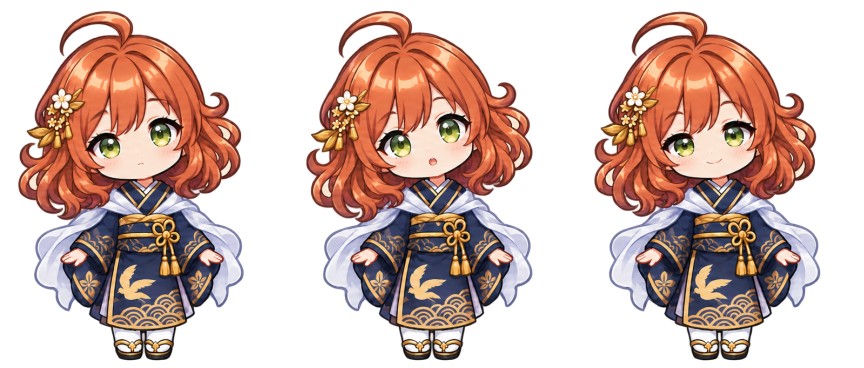
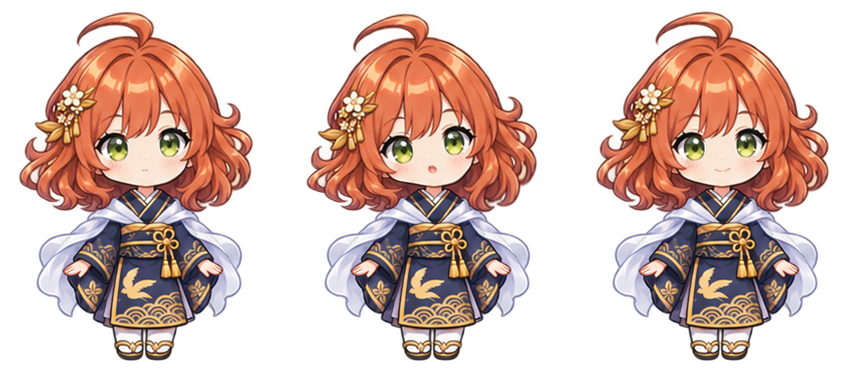
M41: Tune bow and menu direction and stabilize neck tilt artwork

diff --git a/tests/HagoromoChan.Tests/CharacterReactionTests.cs b/tests/HagoromoChan.Tests/CharacterReactionTests.cs
@@ -202,11 +202,14 @@ internal static class CharacterReactionTests
         startup.ObserveStartup(initialized: true, firstFrameRendered: false, 0);
         Check(startup.Sample(1).Pose == ReactionPose.Idle, "a loaded but not yet painted mascot never bows");
         startup.ObserveStartup(initialized: true, firstFrameRendered: true, 2);
-        var bow = startup.Sample(295);
+        Check(startup.Sample(521) is { ArtworkCell: 0, DurationMs: 1420 }, "the bow entry lasts 520 ms");
+        var bow = startup.Sample(522);
         Check(bow is { Pose: ReactionPose.StartupBow, Artwork: LocalMotionCells.Startup, ArtworkCell: 1 },
             "startup bows with a body change rather than gaze alone");
-        startup.ObserveStartup(initialized: true, firstFrameRendered: true, 715);
-        Check(startup.Sample(715).Pose == ReactionPose.Idle && !startup.WaitingForReply,
+        Check(startup.Sample(822).ArtworkCell == 2 && startup.Sample(1421).ArtworkCell == 2,
+            "the bow apex lasts 300 ms and recovery lasts 600 ms");
+        startup.ObserveStartup(initialized: true, firstFrameRendered: true, 1422);
+        Check(startup.Sample(1422).Pose == ReactionPose.Idle && !startup.WaitingForReply,
             "repeated first-frame callbacks do not bow or mutate the relay");
         var off = new CharacterReactionState();
         off.SetEnabled(false, 0);
@@ -215,12 +218,46 @@ internal static class CharacterReactionTests
         off.ObserveStartup(true, true, 3);
         Check(off.Sample(3).Pose == ReactionPose.Idle, "motion-off suppresses startup without delayed replay");
 
+        var longBow = new CharacterReactionState();
+        longBow.ObserveStartup(true, true, 0);
+        longBow.ObserveMenu(true, 20, 10);
+        Check(longBow.Sample(1419).Pose == ReactionPose.StartupBow &&
+              longBow.Sample(1420) is { Pose: ReactionPose.MenuPeek, Artwork: LocalMotionCells.MenuLeft },
+            "the immediate menu's peek survives the long bow and starts at its boundary");
+        var closedDuringBow = new CharacterReactionState();
+        closedDuringBow.ObserveStartup(true, true, 0);
+        closedDuringBow.ObserveMenu(true, -20, 10);
+        closedDuringBow.ObserveMenu(false, 0, 100);
+        Check(closedDuringBow.Sample(1420).Pose == ReactionPose.Idle, "closing during the bow discards a waiting peek");
+        var closingBow = new CharacterReactionState();
+        closingBow.ObserveStartup(true, true, 0);
+        closingBow.BeginShutdown(0, animate: true);
+        Check(closingBow.Sample(709).Pose == ReactionPose.StartupBow &&
+              closingBow.Sample(710).Pose == ReactionPose.Shutdown,
+            "shutdown waits no longer for the bow than before");
+        closingBow.Sample(1410);
+        Check(closingBow.ShutdownReady, "the pre-extension shutdown deadline still holds");
+        off.SetEnabled(false, 10);
+        off.ObserveMenu(true, 1, 11);
+        Check(off.Sample(11).Pose == ReactionPose.Still, "motion-off suppresses a menu peek");
+        off.SetEnabled(true, 12);
+        Check(off.Sample(12).Pose == ReactionPose.Still, "enabling motion does not replay the open menu");
+
+        foreach (var (offset, key) in new[] { (-20d, LocalMotionCells.MenuRight), (-.25, LocalMotionCells.MenuRight),
+                                            (0d, LocalMotionCells.MenuLeft), (.25, LocalMotionCells.MenuLeft),
+                                            (20d, LocalMotionCells.MenuLeft) })
+        {
+            var placedMenu = new CharacterReactionState();
+            placedMenu.ObserveMenu(true, offset, 0);
+            Check(placedMenu.Sample(0).Artwork == key, "peek uses the side opposite actual menu placement");
+        }
+
         var menu = new CharacterReactionState();
         menu.ObserveMenu(true, -1, 10);
         menu.Receive([Row(1, "new")], 20);
         var peek = menu.Sample(200);
-        Check(peek is { Pose: ReactionPose.MenuPeek, Artwork: LocalMotionCells.MenuLeft, ArtworkCell: 1 },
-            "one short reaction visibly leans toward the open menu");
+        Check(peek is { Pose: ReactionPose.MenuPeek, Artwork: LocalMotionCells.MenuRight, ArtworkCell: 1 },
+            "one short reaction visibly leans away from the open menu");
         Check(menu.Sample(451).Pose == ReactionPose.Still && menu.Sample(3100).Pose == ReactionPose.Still,
             "a long-open menu does not replay or run normal background actions");
         menu.ObserveMenu(false, 0, 3101);
@@ -229,8 +266,8 @@ internal static class CharacterReactionTests
         reopen.ObserveMenu(true, -1, 0);
         reopen.ObserveMenu(false, 0, 150);
         reopen.ObserveMenu(true, 1, 160);
-        Check(reopen.Sample(200).Artwork == LocalMotionCells.MenuLeft, "a new target cannot flip a protected visual");
-        Check(reopen.Sample(440).Pose == ReactionPose.MenuPeek && reopen.Sample(610).Artwork == LocalMotionCells.MenuRight,
+        Check(reopen.Sample(200).Artwork == LocalMotionCells.MenuRight, "a new target cannot flip a protected visual");
+        Check(reopen.Sample(440).Pose == ReactionPose.MenuPeek && reopen.Sample(610).Artwork == LocalMotionCells.MenuLeft,
             "the next peek uses the next menu side only after the first ends");
         var quickMenu = new CharacterReactionState();
         quickMenu.Fail(0);
@@ -262,18 +299,18 @@ internal static class CharacterReactionTests
         var definitions = new (string Key, Action<CharacterReactionState> Start)[]
         {
             (LocalMotionCells.Startup, x => x.ObserveStartup(true, true, 0)),
-            (LocalMotionCells.MenuLeft, x => x.ObserveMenu(true, -1, 0)),
-            (LocalMotionCells.MenuRight, x => x.ObserveMenu(true, 1, 0)),
+            (LocalMotionCells.MenuRight, x => x.ObserveMenu(true, -1, 0)),
+            (LocalMotionCells.MenuLeft, x => x.ObserveMenu(true, 1, 0)),
             (LocalMotionCells.Open, x => x.ConversationChanged(false, true, 0, mascotClick: true)),
             (LocalMotionCells.Close, x => x.ConversationChanged(true, false, 0, mascotClick: true))
         };
         foreach (var (key, start) in definitions)
-        foreach (var skippedTick in Enumerable.Range(-1, 17))
+        foreach (var skippedTick in Enumerable.Range(-1, 31))
         {
             var motion = new CharacterReactionState();
             start(motion);
             var frames = new List<int>();
-            for (var tick = 0; tick <= 800; tick += 50)
+            for (var tick = 0; tick <= 1450; tick += 50)
             {
                 if (tick / 50 == skippedTick) continue; // one 100 ms render gap
                 var frame = motion.Sample(tick);

diff --git a/src/HagoromoChan.Desktop/CharacterReactionState.cs b/src/HagoromoChan.Desktop/CharacterReactionState.cs
@@ -167,7 +167,7 @@ internal sealed class CharacterReactionState(bool customArtwork = false)
     private sealed record MotionDefinition(ReactionPose Pose, string Artwork, ReactionTimeline Timeline,
         ReactionTimeline? CustomTimeline = null, Aim Aim = Aim.None, bool? Visible = null,
         bool Coalesce = false, string? DirectArtwork = null, double? UnreadLookFrom = null,
-        bool WhileMenuOpen = false, string? LeftArtwork = null);
+        bool WhileMenuOpen = false, string? LeftArtwork = null, int? ShutdownPlaybackLimitMs = null);
     private readonly record struct Queued(MotionDefinition Definition, long At);
     private readonly record struct Playing(MotionDefinition Definition, ReactionTimeline Timeline, long Started, string Artwork, long? EligibleAfter = null)
     {
@@ -210,7 +210,8 @@ internal sealed class CharacterReactionState(bool customArtwork = false)
             new(ReactionPose.Failed, "failed", Clip(800)),
             new(ReactionPose.Jump, "jumping", Clip(650), Coalesce: true),
             new(ReactionPose.Shutdown, "farewell", Clip(700)),
-            new(ReactionPose.StartupBow, LocalMotionCells.Startup, DrawnMotion(260, 150, 300)),
+            new(ReactionPose.StartupBow, LocalMotionCells.Startup, DrawnMotion(520, 300, 600),
+                ShutdownPlaybackLimitMs: 710),
             new(ReactionPose.MenuPeek, LocalMotionCells.MenuRight, DrawnMotion(130, 130, 180),
                 Coalesce: true, WhileMenuOpen: true, LeftArtwork: LocalMotionCells.MenuLeft),
             new(ReactionPose.ConversationOpen, LocalMotionCells.Open, DrawnMotion(180, 180, 220), Visible: true),
@@ -220,7 +221,7 @@ internal sealed class CharacterReactionState(bool customArtwork = false)
 
     private Playing Start(MotionDefinition motion, long now) =>
         new(motion, customArtwork ? motion.CustomTimeline ?? motion.Timeline : motion.Timeline, now,
-            _menuSide < 0 ? motion.LeftArtwork ?? motion.Artwork : motion.Artwork);
+            _uncoveredSide < 0 ? motion.LeftArtwork ?? motion.Artwork : motion.Artwork);
 
     private Playing Start(ReactionPose pose, long now) => Start(Motions[pose], now);
 
@@ -233,7 +234,7 @@ internal sealed class CharacterReactionState(bool customArtwork = false)
     private ReactionPose? _lastGreeting;
     private long _lastGreetingAt;
     private bool _unread, _visible, _startupObserved, _menuOpen;
-    private double _menuSide = 1;
+    private int _uncoveredSide = -1;
     private long? _windowMoved;
     private (double X, double Y) _windowTarget;
     private (double X, double Y)? _cursor;
@@ -270,13 +271,14 @@ internal sealed class CharacterReactionState(bool customArtwork = false)
         Request(ReactionPose.StartupBow, nowMs);
     }
 
-    public void ObserveMenu(bool open, double side, long nowMs)
+    public void ObserveMenu(bool open, double menuOffsetX, long nowMs)
     {
         if (_stopped || IsClosing || _menuOpen == open) return;
         _menuOpen = open;
         if (open)
         {
-            _menuSide = side < 0 ? -1 : 1;
+            // Zero (centered or unavailable) chooses left consistently.
+            _uncoveredSide = menuOffsetX < 0 ? 1 : -1;
             Request(ReactionPose.MenuPeek, nowMs);
         }
         else Advance(nowMs);
@@ -579,7 +581,8 @@ internal sealed class CharacterReactionState(bool customArtwork = false)
             return;
         }
         if (nowMs - requested < ClosingWaitMs &&
-            ((_finite is { } current && current.Elapsed(nowMs) < current.Timeline.Duration) ||
+            ((_finite is { } current && current.Elapsed(nowMs) <
+              Math.Min(current.Timeline.Duration, current.Definition.ShutdownPlaybackLimitMs ?? int.MaxValue)) ||
              !CanLeaveBackground(requested, nowMs)))
             return;
 

diff --git a/src/HagoromoChan.Desktop/MainWindow.Interaction.cs b/src/HagoromoChan.Desktop/MainWindow.Interaction.cs
@@ -330,13 +330,13 @@ public partial class MainWindow : Window
         menu.Opened += (_, _) => Dispatcher.BeginInvoke(DispatcherPriority.Loaded, new Action(() =>
         {
             if (_contextMenu != menu || !menu.IsOpen || _closing || _exitRequested) return;
-            var side = 1d;
-            if (PresentationSource.FromVisual(menu) is not null && _lastBounds is { } mascot)
+            var menuOffsetX = 0d;
+            if (menu.ActualWidth > 0 && PresentationSource.FromVisual(menu) is not null && _lastBounds is { } mascot)
             {
                 var center = menu.PointToScreen(new Point(menu.ActualWidth / 2, 0));
-                side = center.X < mascot.X + mascot.Width / 2.0 ? -1d : 1d;
+                menuOffsetX = center.X - (mascot.X + mascot.Width / 2.0);
             }
-            _reactions.ObserveMenu(true, side, Environment.TickCount64);
+            _reactions.ObserveMenu(true, menuOffsetX, Environment.TickCount64);
             RefreshReactionSuspension();
         }));
         menu.Closed += (_, _) =>

diff --git a/docs/milestones/M41.md b/docs/milestones/M41.md
@@ -57,3 +57,11 @@
 - 起動時のローカル準備・初回描画、一度だけの起動演出、即時メニュー、実際のキャラクタークリックによる開閉だけを契機とする。M53の短い押下の保持・続きからの再開、保護区間、ドラッグによる中断、通常終了は共通制御を引き継ぐ。
 - 検証: 透過RGBA・全15セルの足裏最下行 y=359・全5 Git blobの一致。隔離Linux .NET SDK 10.0.404 で Windows対象Release とWindows描画検査プロジェクトのビルド成功（警告・エラー0）。Core 51/52、既知の制御パイプ SocketException 13 のみ未成立。M41回帰は通常50 msおよび任意の1回欠落による100 ms間隔で5本すべての0→1→2を確認した。
 - Windows描画検査は実同梱URI→全セルの切り出し→同じ描画キャンバスとアンカーを検査するが、Windowsでの実行、実機の見た目とメニューとの重なりは未確認。main未統合。
+
+## 作画版の Windows 試用後の調整（2026-11-28 JST）
+
+- Windows 試用版 `07b3115b3fe4f5e67fb60525f24441c33a12c0ef` への指摘に対応。起動のお辞儀を 520 / 300 / 600 ms（合計 1420 ms）とし、セルや起動条件を変えない。終了要求時だけお辞儀の待ちを旧来の再生長 710 ms に抑え、共通の待機・全体期限と終了専用の挨拶は変更しない。
+- メニューは配置を変更せず即時表示し、開いたメニューの実中心がキャラクターの左なら右向き、右なら左向きの既存のぞき絵を選ぶ。中心一致・測定不能時は左向き。既存の左右別素材を使い鏡映は行わない。お辞儀の終了後にのぞきを再生でき、先に閉じたメニューの未再生分は破棄する。会話の首かしげ素材は別作業。
+- 回帰検査を追加：お辞儀の3区間、連続入力と終了期限、開いたメニューへの切替と閉じた場合の破棄、左右・中心、動作OFF。Windowsでの速度と重なりは再確認待ち。main 未統合。
+- 首かしげは作画枝 `b8a8d00ed5ccb41b07702b198e95d5394cbb403b` の修正版シートを同梱。通常立ち絵を基準に肩・襟・足元を固定し、頭・表情だけを描き分けた。3コマすべてで y=214 以下の RGBA が従来の通常立ち絵と一致し、足裏は y=359 のまま。明暗2背景の等倍比較で確認。閉じるときの小さな会釈は変更なし。
+- 修正版のWindows対象Releaseと描画検査のビルドは警告・エラーなし。Coreは51/52で、対象の回帰検査は成功。未成立の1件は同じ隔離Linux環境で従来から発生する制御パイプの権限エラー。Windowsでの実際の見た目は再確認待ち。
